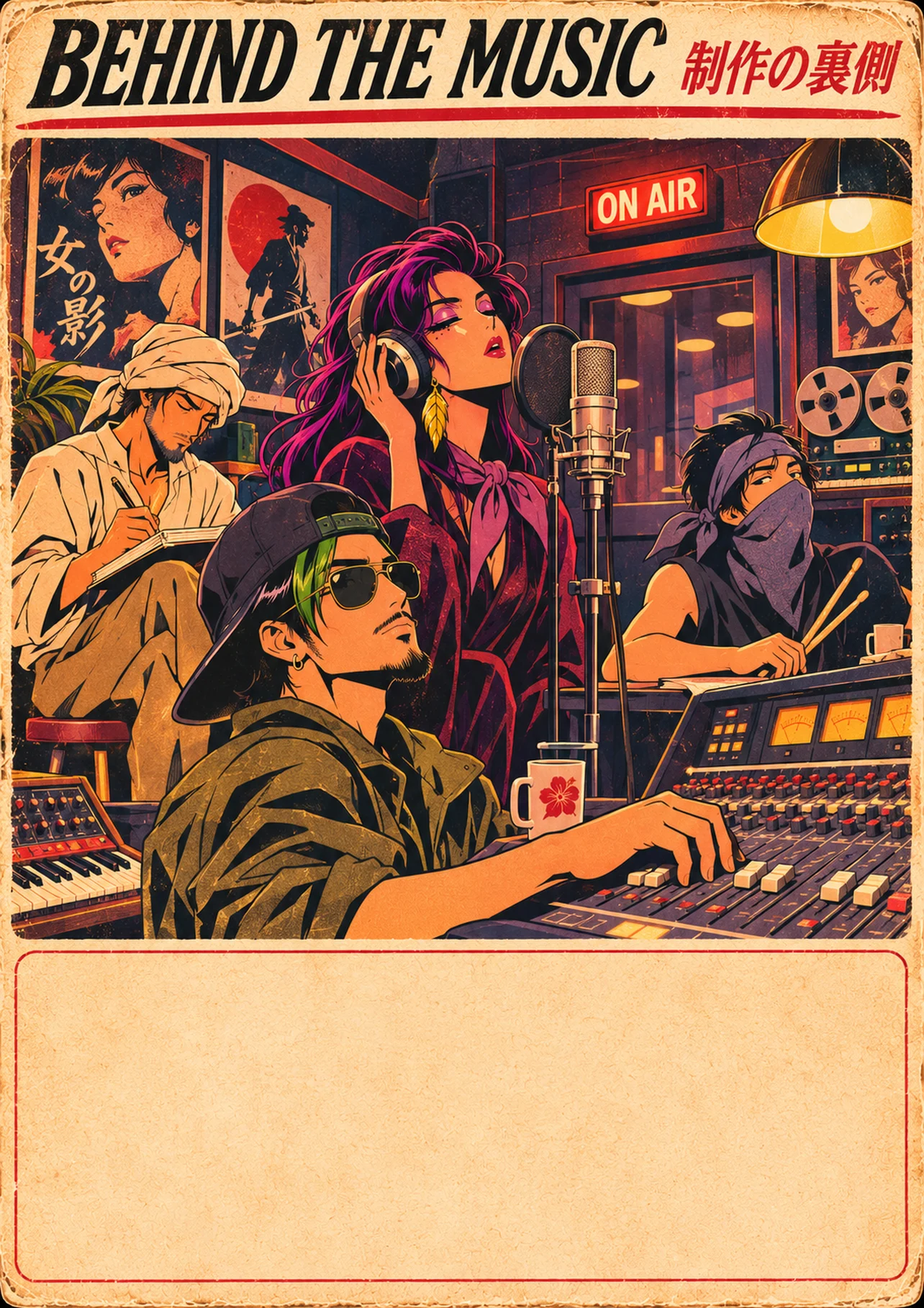
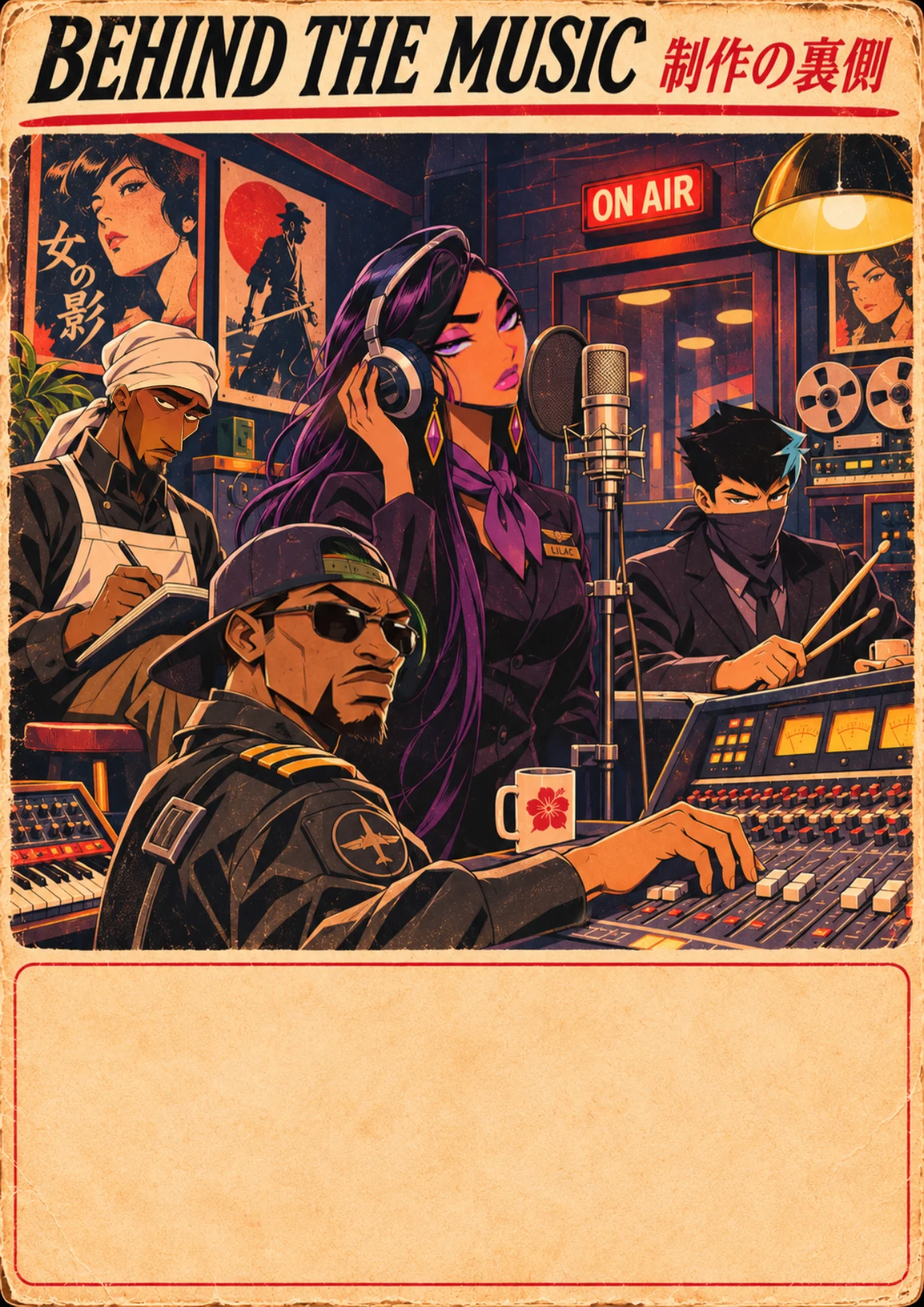
Magazine: updated Behind the Music artwork
Claude-Session: https://claude.ai/code/session_013w5yMdZKv437No8p47gv7E

diff --git a/okinawa/magazine.html b/okinawa/magazine.html
@@ -313,8 +313,8 @@ h2.big{white-space:nowrap;font:italic 900 46px/1 "Barlow Condensed";letter-spaci
 <img class="badge" src="mag/i-14.webp" alt="" loading="lazy"><div class="theme">Revenge, theatre and a wink</div>
 <blockquote class="q">“Hocus pocus, can’t you see? / The only disappearing act is you leaving me”</blockquote><p class="syn">He cheated; she’s a witch. Voodoo Doll is a theatrical revenge spell with a wink: the purse goes to a friend, the pin goes in the doll, and the only disappearing act left is him leaving.</p>
 <p class="jn"><b>JAPAN <span lang="ja">日本</span></b>Japan has its own curse doll: the wara ningyō, a straw figure nailed to a shrine tree at the hour of the ox, between 1 and 3 a.m. On the cover it wears a striped necktie, so there is no doubt who it is for.</p>
-<a class="play" href="./?play=13"><svg viewBox="0 0 24 24" aria-hidden="true"><path fill="currentColor" d="M8 5v14l11-7z"/></svg> Play channel 14 · 4:14</a><div class="folio"><span>LAY-L AIR · ONE WAY · ISSUE 001</span><b>22</b></div></section></template><template><section class="pg duty-pg"><img class="bleed fill" src="mag/x-duty.webp" alt="Duty-free catalog: LAY-L AIR select goods"><a class="dutylink" href="./#shop">See the shop ▸</a><b class="dpn">23</b></section></template><template><section class="pg art"><img class="bleed fill" src="mag/x-travel1.webp" alt="Travel guide: illustrated map of Okinawa with six highlights"></section></template><template><section class="pg art"><img class="bleed fill" src="mag/x-travel2.webp" alt="Six Okinawa highlights"><div class="cap" style="left:2.8%;top:33.6%"><b>Shuri Castle 首里城</b> Former royal palace of the Ryukyu Kingdom, in Naha. Part of a UNESCO World Heritage site.</div><div class="cap" style="left:51.5%;top:33.6%"><b>Kokusai-dōri 国際通り</b> Naha’s main street: about 1.6 km of shops, bars and late-night neon.</div><div class="cap" style="left:2.8%;top:62.8%"><b>Makishi Market 牧志公設市場</b> Pick your fish downstairs, have it cooked upstairs. Try umibudō, “sea grapes”.</div><div class="cap" style="left:51.5%;top:62.8%"><b>Cape Manzamo 万座毛</b> A cliff shaped like an elephant’s trunk, on the west coast at Onna.</div><div class="cap" style="left:2.8%;top:92.3%"><b>Churaumi Aquarium 美ら海水族館</b> Whale sharks glide past one of the biggest aquarium windows in the world.</div><div class="cap" style="left:51.5%;top:92.3%"><b>Kouri Island 古宇利島</b> Reached by a bridge almost 2 km long over clear turquoise water.</div></section></template><template><section class="pg art"><img class="bleed fill" src="mag/x-btm1.webp" alt="LAY-L in the studio">
-<div class="box" style="left:6%;top:74%;width:88%;height:23%"><p class="body s m">LAY-L is one crew of four: Lilac, Asmar, Yamm and Lattam. Every song on <i>Okinawa… One Way..</i> is a soundtrack to a film that doesn’t exist, each from a different decade of Japanese film and music.</p>
+<a class="play" href="./?play=13"><svg viewBox="0 0 24 24" aria-hidden="true"><path fill="currentColor" d="M8 5v14l11-7z"/></svg> Play channel 14 · 4:14</a><div class="folio"><span>LAY-L AIR · ONE WAY · ISSUE 001</span><b>22</b></div></section></template><template><section class="pg duty-pg"><img class="bleed fill" src="mag/x-duty.webp" alt="Duty-free catalog: LAY-L AIR select goods"><a class="dutylink" href="./#shop">See the shop ▸</a><b class="dpn">23</b></section></template><template><section class="pg art"><img class="bleed fill" src="mag/x-travel1.webp" alt="Travel guide: illustrated map of Okinawa with six highlights"></section></template><template><section class="pg art"><img class="bleed fill" src="mag/x-travel2.webp" alt="Six Okinawa highlights"><div class="cap" style="left:2.8%;top:33.6%"><b>Shuri Castle 首里城</b> Former royal palace of the Ryukyu Kingdom, in Naha. Part of a UNESCO World Heritage site.</div><div class="cap" style="left:51.5%;top:33.6%"><b>Kokusai-dōri 国際通り</b> Naha’s main street: about 1.6 km of shops, bars and late-night neon.</div><div class="cap" style="left:2.8%;top:62.8%"><b>Makishi Market 牧志公設市場</b> Pick your fish downstairs, have it cooked upstairs. Try umibudō, “sea grapes”.</div><div class="cap" style="left:51.5%;top:62.8%"><b>Cape Manzamo 万座毛</b> A cliff shaped like an elephant’s trunk, on the west coast at Onna.</div><div class="cap" style="left:2.8%;top:92.3%"><b>Churaumi Aquarium 美ら海水族館</b> Whale sharks glide past one of the biggest aquarium windows in the world.</div><div class="cap" style="left:51.5%;top:92.3%"><b>Kouri Island 古宇利島</b> Reached by a bridge almost 2 km long over clear turquoise water.</div></section></template><template><section class="pg art"><img class="bleed fill" src="mag/x-btm1.webp?v=2" alt="LAY-L in the studio">
+<div class="box" style="left:6%;top:72.5%;width:88%;height:24.5%"><p class="body s m">LAY-L is one crew of four: Lilac, Asmar, Yamm and Lattam. Every song on <i>Okinawa… One Way..</i> is a soundtrack to a film that doesn’t exist, each from a different decade of Japanese film and music.</p>
 <p class="body s m">The band makes its music with modern tools, AI included, and says so openly. Channel 05, <i>Auntie A.I.</i>, is the band’s answer to anyone who calls that cheating.</p>
 <p class="sign s">— Four different rhythms, one journey.</p></div></section></template><template><section class="pg art"><img class="bleed fill" src="mag/x-btm2.webp" alt="From idea to take-off: how a LAY-L song is made"><p class="step" style="top:22.4%">Every song starts as a small, true feeling: a missed call, a broken fridge, a voice on a platform.</p><p class="step" style="top:38.2%">Lyrics come first, rewritten until every line sounds like something you’d actually say out loud.</p><p class="step" style="top:55.0%">Each song picks a decade and a genre from Japanese film and music, and the sound is built around the voice.</p><p class="step" style="top:71.6%">Every track gets a poster for a film that doesn’t exist, in the style of its era.</p><p class="step" style="top:88.1%">Storyboards, keyframes and animation turn the poster into a music video.</p></section></template><template><section class="pg"><div class="lyhead"><img src="mag/x-lyrhead.webp" alt="Lyrics selections"><span class="scr">♪ Some people leave you letters<br>Some leave a little ring</span></div>
 <div class="lygrid"><div class="ly"><span class="chb">CH<b>01</b></span><div><i>One Missed Call.. Two…</i><q>Tick-tock, running late / You still don’t know how to play the game</q></div></div><div class="ly"><span class="chb">CH<b>02</b></span><div><i>Sakura</i><q>Cold rice and tempura / You were talking through the morning</q></div></div><div class="ly"><span class="chb">CH<b>03</b></span><div><i>Lost in Japan</i><q>Funny how a city you’ve never seen / Can feel familiar on the first night</q></div></div><div class="ly"><span class="chb">CH<b>04</b></span><div><i>Why Would I?</i><q>There’s a little difference / Between what I can and what I choose</q></div></div><div class="ly"><span class="chb">CH<b>05</b></span><div><i>Auntie A.I.</i><q>You can hate the way I made it / Doesn’t mean you made it right</q></div></div><div class="ly"><span class="chb">CH<b>06</b></span><div><i>The Voice at Platform Two</i><q>I watched a woman disappear / Who’d never lived at all</q></div></div><div class="ly"><span class="chb">CH<b>07</b></span><div><i>Plastic Flower</i><q>Who gave you permission to die? / You weren’t even alive!</q></div></div><div class="ly"><span class="chb">CH<b>08</b></span><div><i>Crickets</i><q>I thought we were losing touch / Turns out I was the touch</q></div></div><div class="ly"><span class="chb">CH<b>09</b></span><div><i>SAdTURN</i><q>Must be a pattern / Return to Saturn, return to sad-turn</q></div></div><div class="ly"><span class="chb">CH<b>10</b></span><div><i>ASMR Stimulation</i><q>Don’t get to the point / I prefer the scenic route</q></div></div><div class="ly"><span class="chb">CH<b>11</b></span><div><i>Refrigerator</i><q>You like winter, cold like refrigerator / My bag is alligator</q></div></div><div class="ly"><span class="chb">CH<b>12</b></span><div><i>The Wind Called In Sick</i><q>It comes to me in pieces / And leaves before it ends</q></div></div><div class="ly"><span class="chb">CH<b>13</b></span><div><i>Tamagotchi Luv</i><q>You call it love but it’s luv with a u / You can’t call it love when it’s only you</q></div></div><div class="ly"><span class="chb">CH<b>14</b></span><div><i>Voodoo Doll</i><q>Hocus pocus, can’t you see? / The only disappearing act is you leaving me</q></div></div></div><div class="folio"><span>LAY-L AIR · ONE WAY · ISSUE 001</span><b>28</b></div></section></template><template><section class="pg art"><img class="bleed fill" src="mag/x-credits.webp?v=2" alt="Credits and thanks: Lilac, Asmar, Yamm and Lattam boarding passes">
